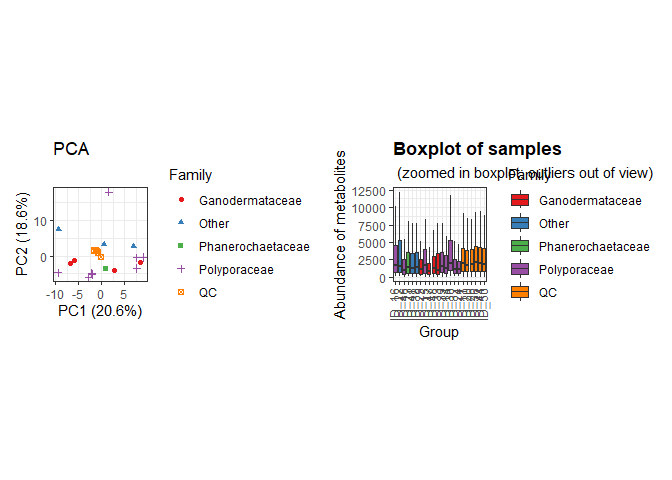
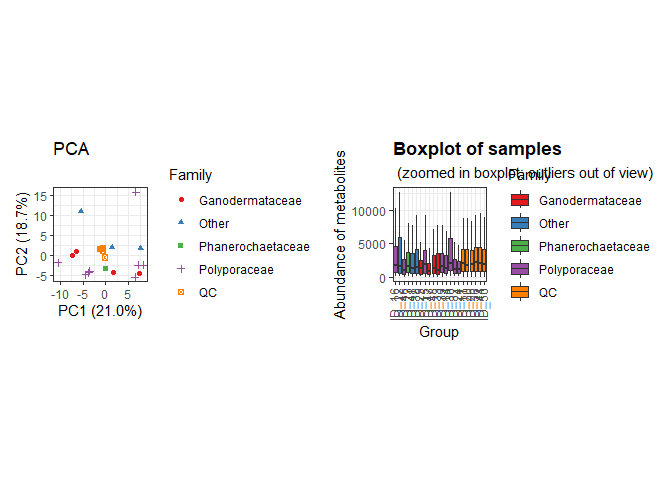
knit of PCA label plot.

Changed region(s): [[0.0625, 0.5, 0.2188, 0.6562], [0.5312, 0.375, 0.5938, 0.5625], [0.0312, 0.4375, 0.0938, 0.5]]

diff --git a/EI_PUCE_Fungi.md b/EI_PUCE_Fungi.md
@@ -72,7 +72,7 @@ ppath <- "C:/Users/F4ss0/Documents/Ikiam21062022/Wood_Fungi/"
 init_log(log_file = paste0(ppath, "Result/log.txt"))
 ```
 
-    ## INFO [2023-08-05 00:29:32] Starting logging
+    ## INFO [2023-08-07 11:38:35] Starting logging
 
 Next, the feature list was imported.
 
@@ -156,10 +156,10 @@ drift correction can be applied by smoothed cubic spline regression.
 
 ``` r
 corrected <- correct_drift(mode)
-corrected <- correct_drift(corrected)   # Second correction to improve drift correction
-corrected <- correct_drift(corrected)   # Third correction to improve drift correction
-corrected <- correct_drift(corrected)
-corrected <- correct_drift(corrected)
+#corrected <- correct_drift(corrected)   # Second correction to improve drift correction
+#corrected <- correct_drift(corrected)   # Third correction to improve drift correction
+#corrected <- correct_drift(corrected)
+#corrected <- correct_drift(corrected)
 corrected <- flag_quality(corrected, condition = "RSD_r < 0.3 & D_ratio_r < 0.5")
 ```
 
@@ -227,10 +227,10 @@ set.seed(81)
 imputed <- impute_rf(EI_compressed)
 ```
 
-    ## INFO [2023-08-05 00:33:24] 
-    ## Starting random forest imputation at 2023-08-05 00:33:24
-    ## INFO [2023-08-05 00:33:28] Out-of-bag error in random forest imputation: 1.337
-    ## INFO [2023-08-05 00:33:28] Random forest imputation finished at 2023-08-05 00:33:28
+    ## INFO [2023-08-07 11:41:31] 
+    ## Starting random forest imputation at 2023-08-07 11:41:31
+    ## INFO [2023-08-07 11:41:35] Out-of-bag error in random forest imputation: 1.321
+    ## INFO [2023-08-07 11:41:35] Random forest imputation finished at 2023-08-07 11:41:35
 
 ``` r
 # All data
@@ -283,6 +283,7 @@ scores <- EI_pca$x %>%               # Get PC coordinates
 
 ggplot(scores, aes(PC1, PC2, shape = Family, color = Family)) +
   geom_point(size = 3) +
+  geom_text(label=EI_pheno_data$Species, nudge_x = 0.8, nudge_y = 0.5, show.legend = FALSE, cex = 4) +
   guides(x=guide_axis(title = "PC 1 (22.02 %)"), y=guide_axis(title = "PC 2 (20.39 %)")) +
   theme_classic()
 ```
@@ -291,7 +292,7 @@ ggplot(scores, aes(PC1, PC2, shape = Family, color = Family)) +
 
 ``` r
 # Save plot
-#ggsave('Result/GC-MS/GC_MS_EI_Score_Plot.png', width = 5, height = 4, device='png', dpi="print")
+#ggsave('Result/GC_MS_EI_Score_Plot.png', width = 5, height = 4, device='png', dpi="print")
 ```
 
 Plotting loading results.
@@ -332,50 +333,50 @@ Finish a record.
 finish_log()
 ```
 
-    ## INFO [2023-08-05 00:33:35] Finished analysis. Sat Aug  5 00:33:35 2023
+    ## INFO [2023-08-07 11:41:42] Finished analysis. Mon Aug  7 11:41:42 2023
     ## Session info:
     ## 
-    ## INFO [2023-08-05 00:33:35] R version 4.2.2 (2022-10-31 ucrt)
-    ## INFO [2023-08-05 00:33:35] Platform: x86_64-w64-mingw32/x64 (64-bit)
-    ## INFO [2023-08-05 00:33:35] Running under: Windows 10 x64 (build 19045)
-    ## INFO [2023-08-05 00:33:35] 
-    ## INFO [2023-08-05 00:33:35] Matrix products: default
-    ## INFO [2023-08-05 00:33:35] 
-    ## INFO [2023-08-05 00:33:35] locale:
-    ## INFO [2023-08-05 00:33:35] [1] LC_COLLATE=Spanish_Spain.utf8  LC_CTYPE=Spanish_Spain.utf8   
-    ## INFO [2023-08-05 00:33:35] [3] LC_MONETARY=Spanish_Spain.utf8 LC_NUMERIC=C                  
-    ## INFO [2023-08-05 00:33:35] [5] LC_TIME=Spanish_Spain.utf8    
-    ## INFO [2023-08-05 00:33:35] 
-    ## INFO [2023-08-05 00:33:35] attached base packages:
-    ## INFO [2023-08-05 00:33:35] [1] parallel  stats     graphics  grDevices utils     datasets  methods  
-    ## INFO [2023-08-05 00:33:35] [8] base     
-    ## INFO [2023-08-05 00:33:35] 
-    ## INFO [2023-08-05 00:33:35] other attached packages:
-    ## INFO [2023-08-05 00:33:35]  [1] missForest_1.5       ggsci_3.0.0          readxl_1.4.2.9000   
-    ## INFO [2023-08-05 00:33:35]  [4] dplyr_1.1.0          ggdendro_0.1.23      Rtsne_0.17          
-    ## INFO [2023-08-05 00:33:35]  [7] cowplot_1.1.2        patchwork_1.1.2.9000 pcaMethods_1.90.0   
-    ## INFO [2023-08-05 00:33:35] [10] doParallel_1.0.14    iterators_1.0.14     foreach_1.5.2       
-    ## INFO [2023-08-05 00:33:35] [13] notame_0.2.0         magrittr_2.0.3       ggplot2_3.4.1.9000  
-    ## INFO [2023-08-05 00:33:35] [16] futile.logger_1.4.3  Biobase_2.58.0       BiocGenerics_0.44.0 
-    ## INFO [2023-08-05 00:33:35] 
-    ## INFO [2023-08-05 00:33:35] loaded via a namespace (and not attached):
-    ## INFO [2023-08-05 00:33:35]  [1] ggrepel_0.9.2.9999   Rcpp_1.0.10          gert_1.9.2          
-    ## INFO [2023-08-05 00:33:35]  [4] tidyr_1.3.0          digest_0.6.31        utf8_1.2.3          
-    ## INFO [2023-08-05 00:33:35]  [7] R6_2.5.1             cellranger_1.1.0     futile.options_1.0.1
-    ## INFO [2023-08-05 00:33:35] [10] sys_3.4.1            evaluate_0.20        highr_0.10          
-    ## INFO [2023-08-05 00:33:35] [13] pillar_1.8.1         itertools_0.1-3      rlang_1.0.6         
-    ## INFO [2023-08-05 00:33:35] [16] rstudioapi_0.14      rmarkdown_2.20       labeling_0.4.2      
-    ## INFO [2023-08-05 00:33:35] [19] igraph_1.4.1.9002    munsell_0.5.0        compiler_4.2.2      
-    ## INFO [2023-08-05 00:33:35] [22] xfun_0.37            pkgconfig_2.0.3      askpass_1.1         
-    ## INFO [2023-08-05 00:33:35] [25] htmltools_0.5.4      openssl_2.0.5        tidyselect_1.2.0    
-    ## INFO [2023-08-05 00:33:35] [28] tibble_3.1.8         codetools_0.2-18     randomForest_4.7-1.1
-    ## INFO [2023-08-05 00:33:35] [31] fansi_1.0.4          viridisLite_0.4.1    withr_2.5.0         
-    ## INFO [2023-08-05 00:33:35] [34] MASS_7.3-58.1        grid_4.2.2           gtable_0.3.1        
-    ## INFO [2023-08-05 00:33:35] [37] lifecycle_1.0.3      formatR_1.14         credentials_1.3.2   
-    ## INFO [2023-08-05 00:33:35] [40] scales_1.2.1         zip_2.2.2            cli_3.6.0           
-    ## INFO [2023-08-05 00:33:35] [43] stringi_1.7.12       farver_2.1.1         fs_1.6.1            
-    ## INFO [2023-08-05 00:33:35] [46] doRNG_1.8.6          generics_0.1.3       vctrs_0.5.2         
-    ## INFO [2023-08-05 00:33:35] [49] openxlsx_4.2.5.2     lambda.r_1.2.4       RColorBrewer_1.1-3  
-    ## INFO [2023-08-05 00:33:35] [52] tools_4.2.2          glue_1.6.2           purrr_1.0.1         
-    ## INFO [2023-08-05 00:33:35] [55] rngtools_1.5.2       fastmap_1.1.0        yaml_2.3.7          
-    ## INFO [2023-08-05 00:33:35] [58] colorspace_2.1-0     knitr_1.42           usethis_2.1.6
+    ## INFO [2023-08-07 11:41:42] R version 4.2.2 (2022-10-31 ucrt)
+    ## INFO [2023-08-07 11:41:42] Platform: x86_64-w64-mingw32/x64 (64-bit)
+    ## INFO [2023-08-07 11:41:42] Running under: Windows 10 x64 (build 19045)
+    ## INFO [2023-08-07 11:41:42] 
+    ## INFO [2023-08-07 11:41:42] Matrix products: default
+    ## INFO [2023-08-07 11:41:42] 
+    ## INFO [2023-08-07 11:41:42] locale:
+    ## INFO [2023-08-07 11:41:42] [1] LC_COLLATE=Spanish_Spain.utf8  LC_CTYPE=Spanish_Spain.utf8   
+    ## INFO [2023-08-07 11:41:42] [3] LC_MONETARY=Spanish_Spain.utf8 LC_NUMERIC=C                  
+    ## INFO [2023-08-07 11:41:42] [5] LC_TIME=Spanish_Spain.utf8    
+    ## INFO [2023-08-07 11:41:42] 
+    ## INFO [2023-08-07 11:41:42] attached base packages:
+    ## INFO [2023-08-07 11:41:42] [1] parallel  stats     graphics  grDevices utils     datasets  methods  
+    ## INFO [2023-08-07 11:41:42] [8] base     
+    ## INFO [2023-08-07 11:41:42] 
+    ## INFO [2023-08-07 11:41:42] other attached packages:
+    ## INFO [2023-08-07 11:41:42]  [1] missForest_1.5       ggsci_3.0.0          readxl_1.4.2.9000   
+    ## INFO [2023-08-07 11:41:42]  [4] dplyr_1.1.0          ggdendro_0.1.23      Rtsne_0.17          
+    ## INFO [2023-08-07 11:41:42]  [7] cowplot_1.1.2        patchwork_1.1.2.9000 pcaMethods_1.90.0   
+    ## INFO [2023-08-07 11:41:42] [10] doParallel_1.0.14    iterators_1.0.14     foreach_1.5.2       
+    ## INFO [2023-08-07 11:41:42] [13] notame_0.2.0         magrittr_2.0.3       ggplot2_3.4.1.9000  
+    ## INFO [2023-08-07 11:41:42] [16] futile.logger_1.4.3  Biobase_2.58.0       BiocGenerics_0.44.0 
+    ## INFO [2023-08-07 11:41:42] 
+    ## INFO [2023-08-07 11:41:42] loaded via a namespace (and not attached):
+    ## INFO [2023-08-07 11:41:42]  [1] ggrepel_0.9.2.9999   Rcpp_1.0.10          gert_1.9.2          
+    ## INFO [2023-08-07 11:41:42]  [4] tidyr_1.3.0          digest_0.6.31        utf8_1.2.3          
+    ## INFO [2023-08-07 11:41:42]  [7] R6_2.5.1             cellranger_1.1.0     futile.options_1.0.1
+    ## INFO [2023-08-07 11:41:42] [10] sys_3.4.1            evaluate_0.20        highr_0.10          
+    ## INFO [2023-08-07 11:41:42] [13] pillar_1.8.1         itertools_0.1-3      rlang_1.0.6         
+    ## INFO [2023-08-07 11:41:42] [16] rstudioapi_0.14      rmarkdown_2.20       labeling_0.4.2      
+    ## INFO [2023-08-07 11:41:42] [19] igraph_1.4.1.9002    munsell_0.5.0        compiler_4.2.2      
+    ## INFO [2023-08-07 11:41:42] [22] xfun_0.37            pkgconfig_2.0.3      askpass_1.1         
+    ## INFO [2023-08-07 11:41:42] [25] htmltools_0.5.4      openssl_2.0.5        tidyselect_1.2.0    
+    ## INFO [2023-08-07 11:41:42] [28] tibble_3.1.8         codetools_0.2-18     randomForest_4.7-1.1
+    ## INFO [2023-08-07 11:41:42] [31] fansi_1.0.4          viridisLite_0.4.1    withr_2.5.0         
+    ## INFO [2023-08-07 11:41:42] [34] MASS_7.3-58.1        grid_4.2.2           gtable_0.3.1        
+    ## INFO [2023-08-07 11:41:42] [37] lifecycle_1.0.3      formatR_1.14         credentials_1.3.2   
+    ## INFO [2023-08-07 11:41:42] [40] scales_1.2.1         zip_2.2.2            cli_3.6.0           
+    ## INFO [2023-08-07 11:41:42] [43] stringi_1.7.12       farver_2.1.1         fs_1.6.1            
+    ## INFO [2023-08-07 11:41:42] [46] doRNG_1.8.6          generics_0.1.3       vctrs_0.5.2         
+    ## INFO [2023-08-07 11:41:42] [49] openxlsx_4.2.5.2     lambda.r_1.2.4       RColorBrewer_1.1-3  
+    ## INFO [2023-08-07 11:41:42] [52] tools_4.2.2          glue_1.6.2           purrr_1.0.1         
+    ## INFO [2023-08-07 11:41:42] [55] rngtools_1.5.2       fastmap_1.1.0        yaml_2.3.7          
+    ## INFO [2023-08-07 11:41:42] [58] colorspace_2.1-0     knitr_1.42           usethis_2.1.6
